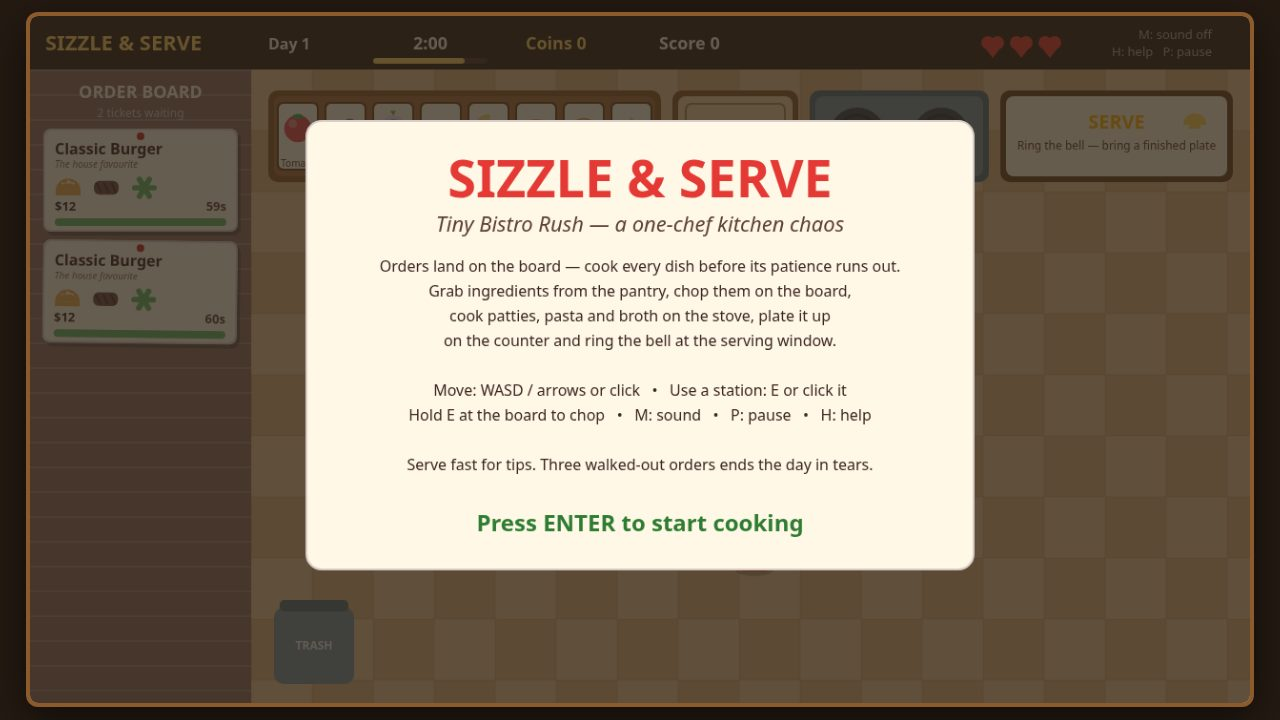
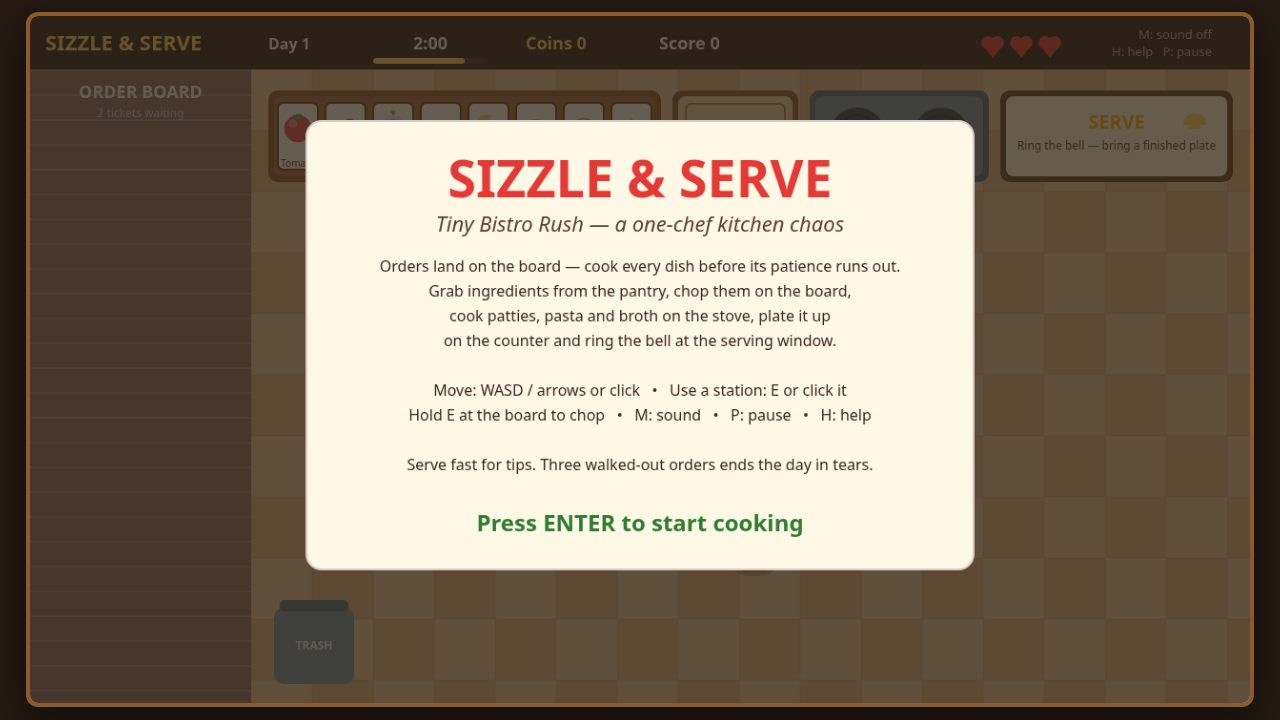
Playtest fixes: BFS pathfinding for click-to-move and the shot autopilot
Straight-line steering deadlocked whenever a station sat between the chef
and the target (the chef slid along the island edge forever); both the
click-to-move route and the screenshot autopilot now walk a BFS path over
the kitchen floor. Also: ticket layout no longer overlaps price/icons,
fresh tickets slide in, the day clock pulses red while a ticket is nearly
out, and main.ts fails loudly on a missing game or screenshots.

Changed region(s): [[0.0312, 0.1528, 0.1875, 0.4889]]

diff --git a/main.ts b/main.ts
@@ -6,7 +6,7 @@
 // Outside the grader, MAKEFUN_OUTPUT_DIR stands in for /output:
 //   mkdir -p out && MAKEFUN_OUTPUT_DIR=out node main.ts
 
-import { cpSync, existsSync, mkdirSync, writeFileSync } from 'node:fs';
+import { cpSync, existsSync, mkdirSync, readdirSync, writeFileSync } from 'node:fs';
 import { join } from 'node:path';
 import { fileURLToPath } from 'node:url';
 import { buildDossier } from './vendor/makefun-game.ts';
@@ -14,6 +14,17 @@ import { buildDossier } from './vendor/makefun-game.ts';
 const here = fileURLToPath(new URL('.', import.meta.url));
 const out = process.env.MAKEFUN_OUTPUT_DIR ?? '/output';
 
+// Pre-flight: fail loudly with a plain message when the entry is incomplete,
+// instead of handing the grader a half-empty /output.
+const gameIndex = join(here, 'game', 'index.html');
+if (!existsSync(gameIndex)) throw new Error('missing game/index.html — the game was not built');
+const shotsDir = join(here, 'screenshots');
+const shots = existsSync(shotsDir)
+  ? readdirSync(shotsDir).filter((name) => !name.startsWith('.'))
+  : [];
+if (shots.length < 3 || shots.length > 4) {
+  throw new Error(`expected 3 or 4 screenshots, found ${shots.length}`);
+}
 mkdirSync(out, { recursive: true });
 cpSync(join(here, 'game'), join(out, 'game'), { recursive: true });
 mkdirSync(join(out, 'screenshots'), { recursive: true });
@@ -23,13 +34,15 @@ if (existsSync(join(here, 'screenshots'))) {
 
 // The gate's caps: at most 4 screenshots of 256 KiB, a game/ of at most 993
 // files and 48 MiB with paths under 1000 bytes, and a dossier of 160 KiB.
-writeFileSync(
-  join(out, 'dossier.json'),
-  buildDossier(out, {
-    text_max_bytes: 163840,
-    screenshots: { max: 4, max_bytes: 262144 },
-    game_max_files: 993,
-    game_max_bytes: 50331648,
-    game_path_max_bytes: 1000,
-  }),
+const dossier = buildDossier(out, {
+  text_max_bytes: 163840,
+  screenshots: { max: 4, max_bytes: 262144 },
+  game_max_files: 993,
+  game_max_bytes: 50331648,
+  game_path_max_bytes: 1000,
+});
+writeFileSync(join(out, 'dossier.json'), dossier);
+console.log(
+  `Sizzle & Serve handed in: ${shots.length} screenshots, `
+  + `dossier ${Buffer.byteLength(dossier, 'utf8')} bytes -> ${out}`,
 );

diff --git a/game/src/render.js b/game/src/render.js
@@ -587,7 +587,10 @@ function drawOrderBoard(ctx, world) {
   ctx.font = `12px ${FONT}`;
   ctx.fillText(`${world.orders.length} ticket${world.orders.length === 1 ? '' : 's'} waiting`, BOARD.width / 2, BOARD.y + 50);
   world.orders.forEach((order, index) => {
-    drawTicket(ctx, order, 14, BOARD.y + 62 + index * 116, BOARD.width - 28, 108);
+    // A fresh ticket slides in from the left over a third of a second.
+    const age = world.dayTime - (order.spawnedAt ?? 0);
+    const slide = age < 0.35 ? -260 * (1 - age / 0.35) * (1 - age / 0.35) : 0;
+    drawTicket(ctx, order, 14 + slide, BOARD.y + 62 + index * 116, BOARD.width - 28, 108);
   });
   if (world.orders.length === 0) {
     ctx.fillStyle = '#fff3e0';
@@ -635,6 +638,24 @@ function drawHUD(ctx, world, muted) {
     ctx.fillStyle = '#ff7043';
     ctx.font = `bold 18px ${FONT}`;
     ctx.fillText(`COMBO x${world.combo}`, 830, 35);
+  }
+  // the rush reads in a glance: while a ticket is nearly out, the day clock
+  // pulses red. (A full board alone is not an emergency.)
+  const rushing = world.orders.some((order) => order.patience < 10);
+  if (rushing) {
+    const pulse = 0.55 + 0.45 * Math.sin(Date.now() / 180);
+    ctx.save();
+    ctx.globalAlpha = pulse;
+    ctx.strokeStyle = '#e53935';
+    ctx.lineWidth = 3;
+    roundRect(ctx, 348, 8, 144, 42, 8);
+    ctx.stroke();
+    ctx.fillStyle = '#ff8a80';
+    ctx.font = `bold 18px ${FONT}`;
+    ctx.textAlign = 'center';
+    ctx.fillText(`${minutes}:${String(seconds).padStart(2, '0')}`, 420, 35);
+    ctx.restore();
+    ctx.textAlign = 'left';
   }
   // hearts
   for (let i = 0; i < MAX_HEARTS; i += 1) {

diff --git a/game/src/world.js b/game/src/world.js
@@ -81,6 +81,8 @@ export function spawnOrder(world) {
     patience,
     maxPatience: patience,
     lastTickSecond: -1,
+    // when the ticket landed, so it can slide onto the board
+    spawnedAt: world.dayTime,
   });
   world.nextOrderId += 1;
 }
